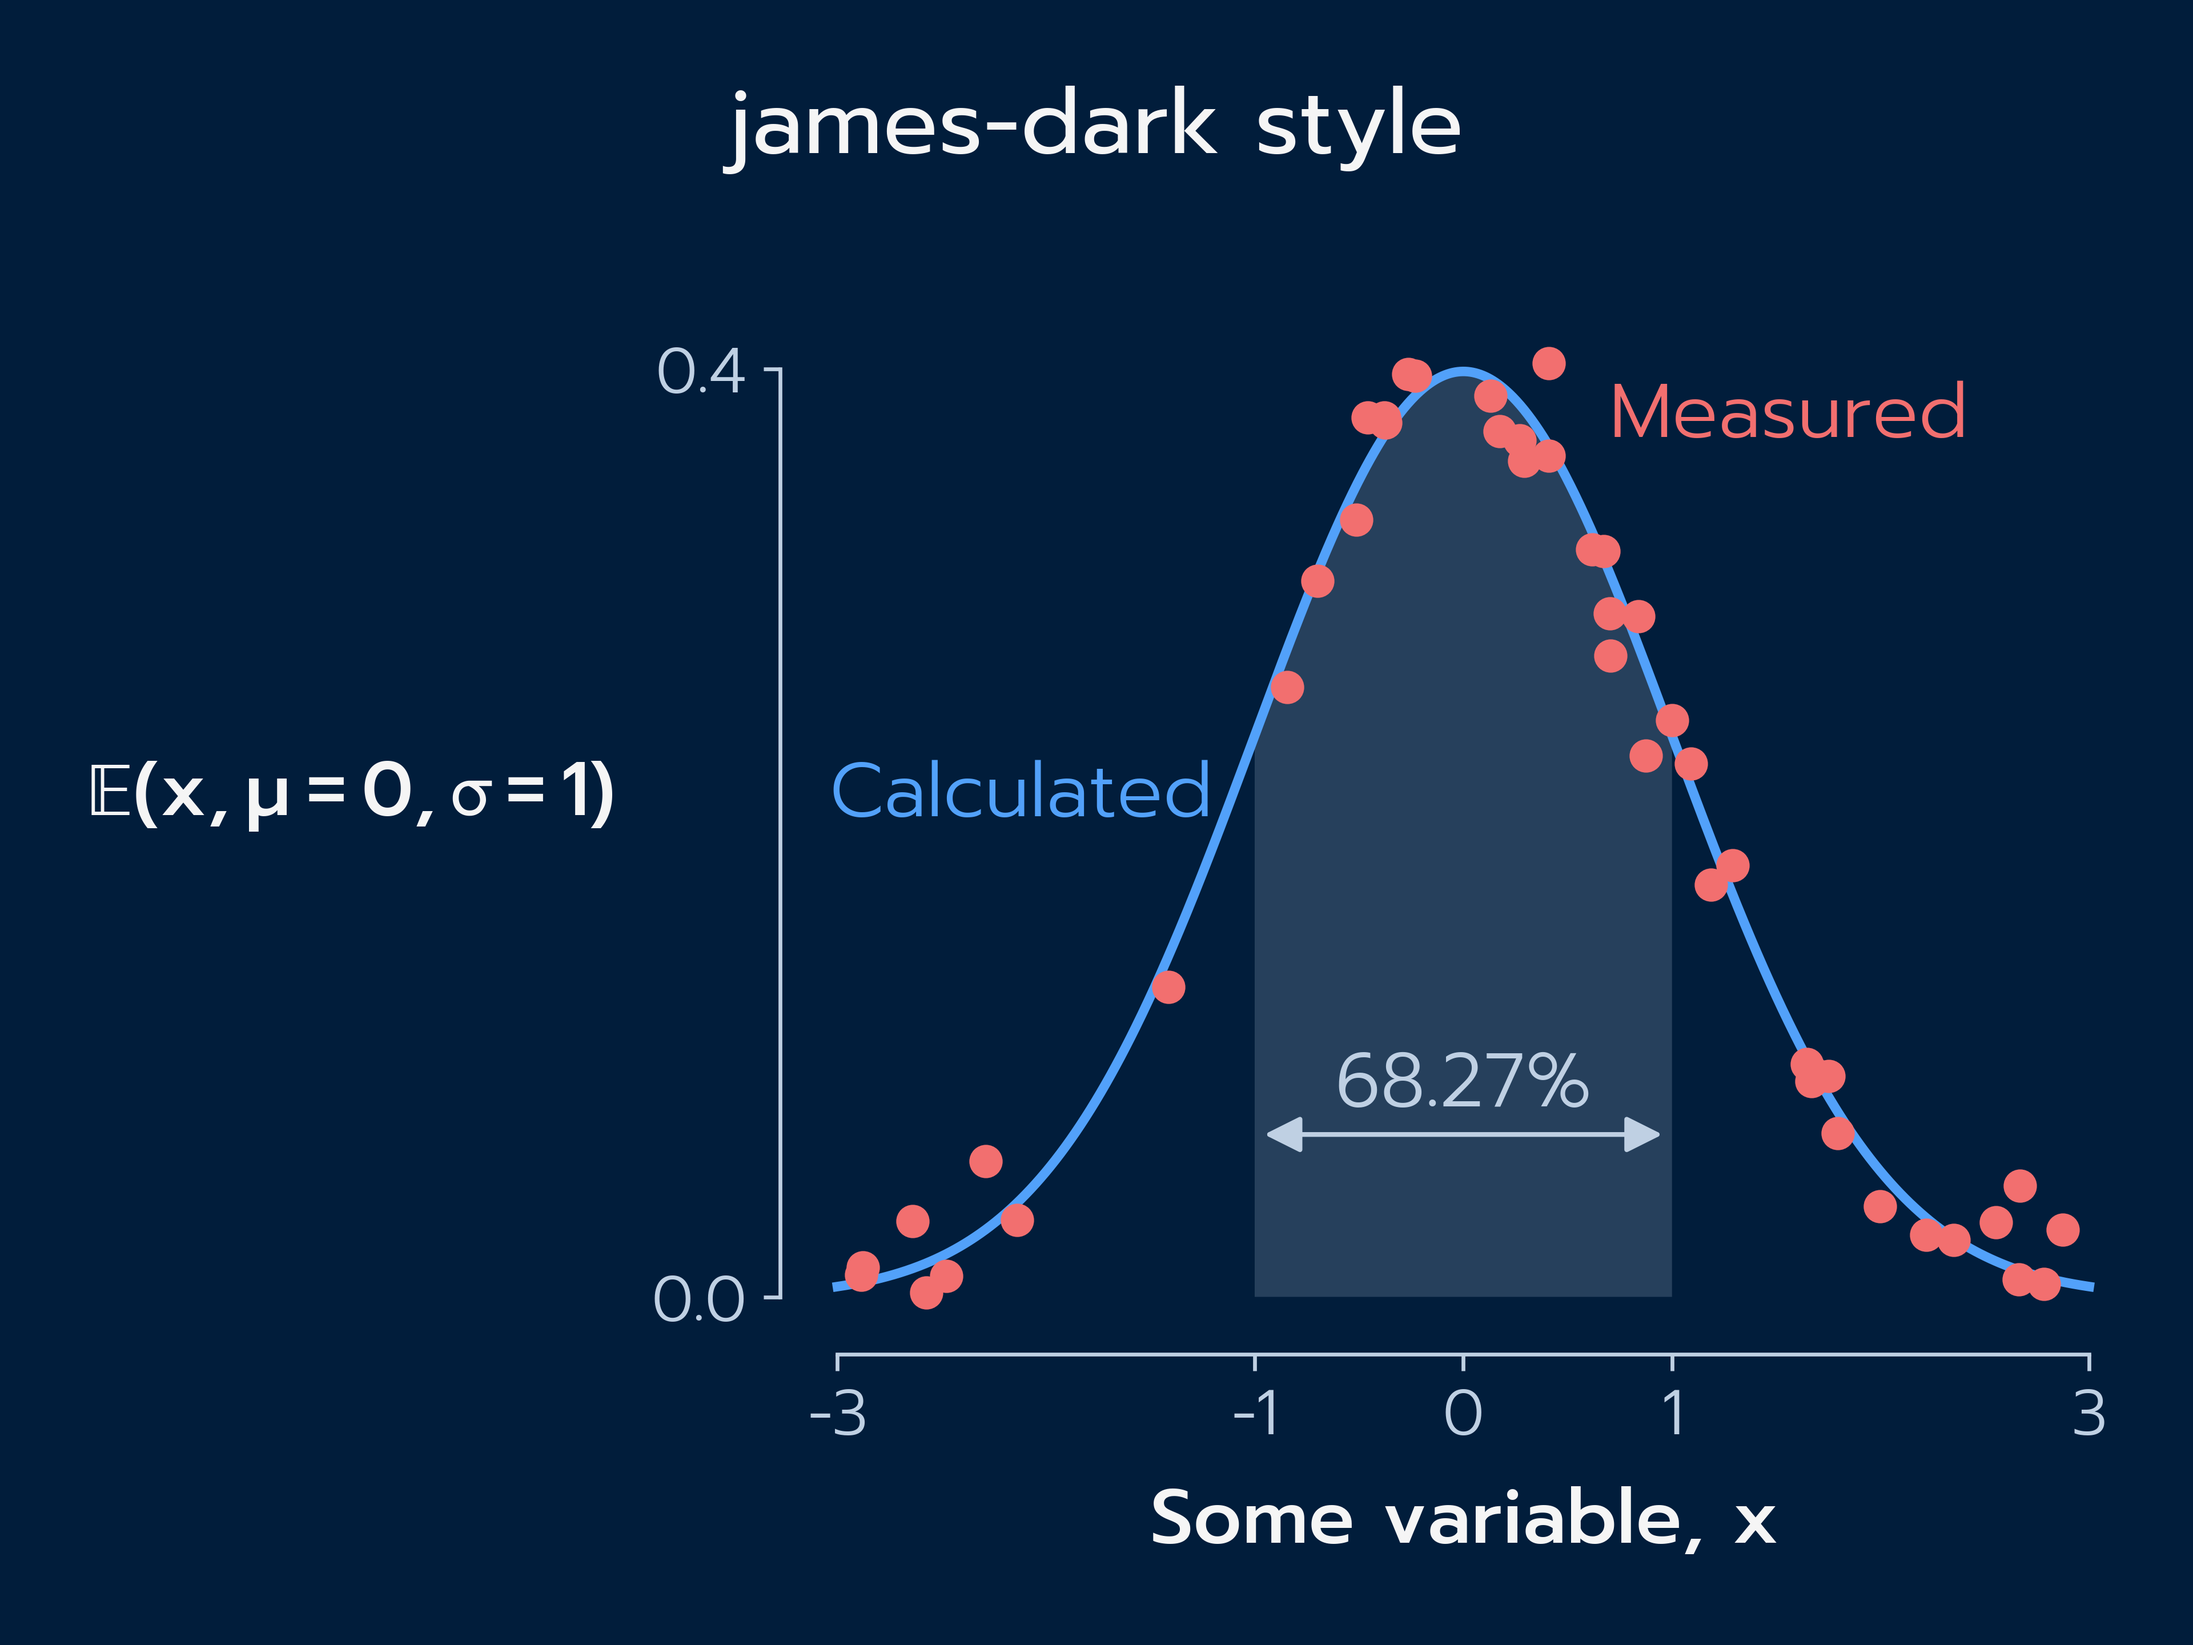
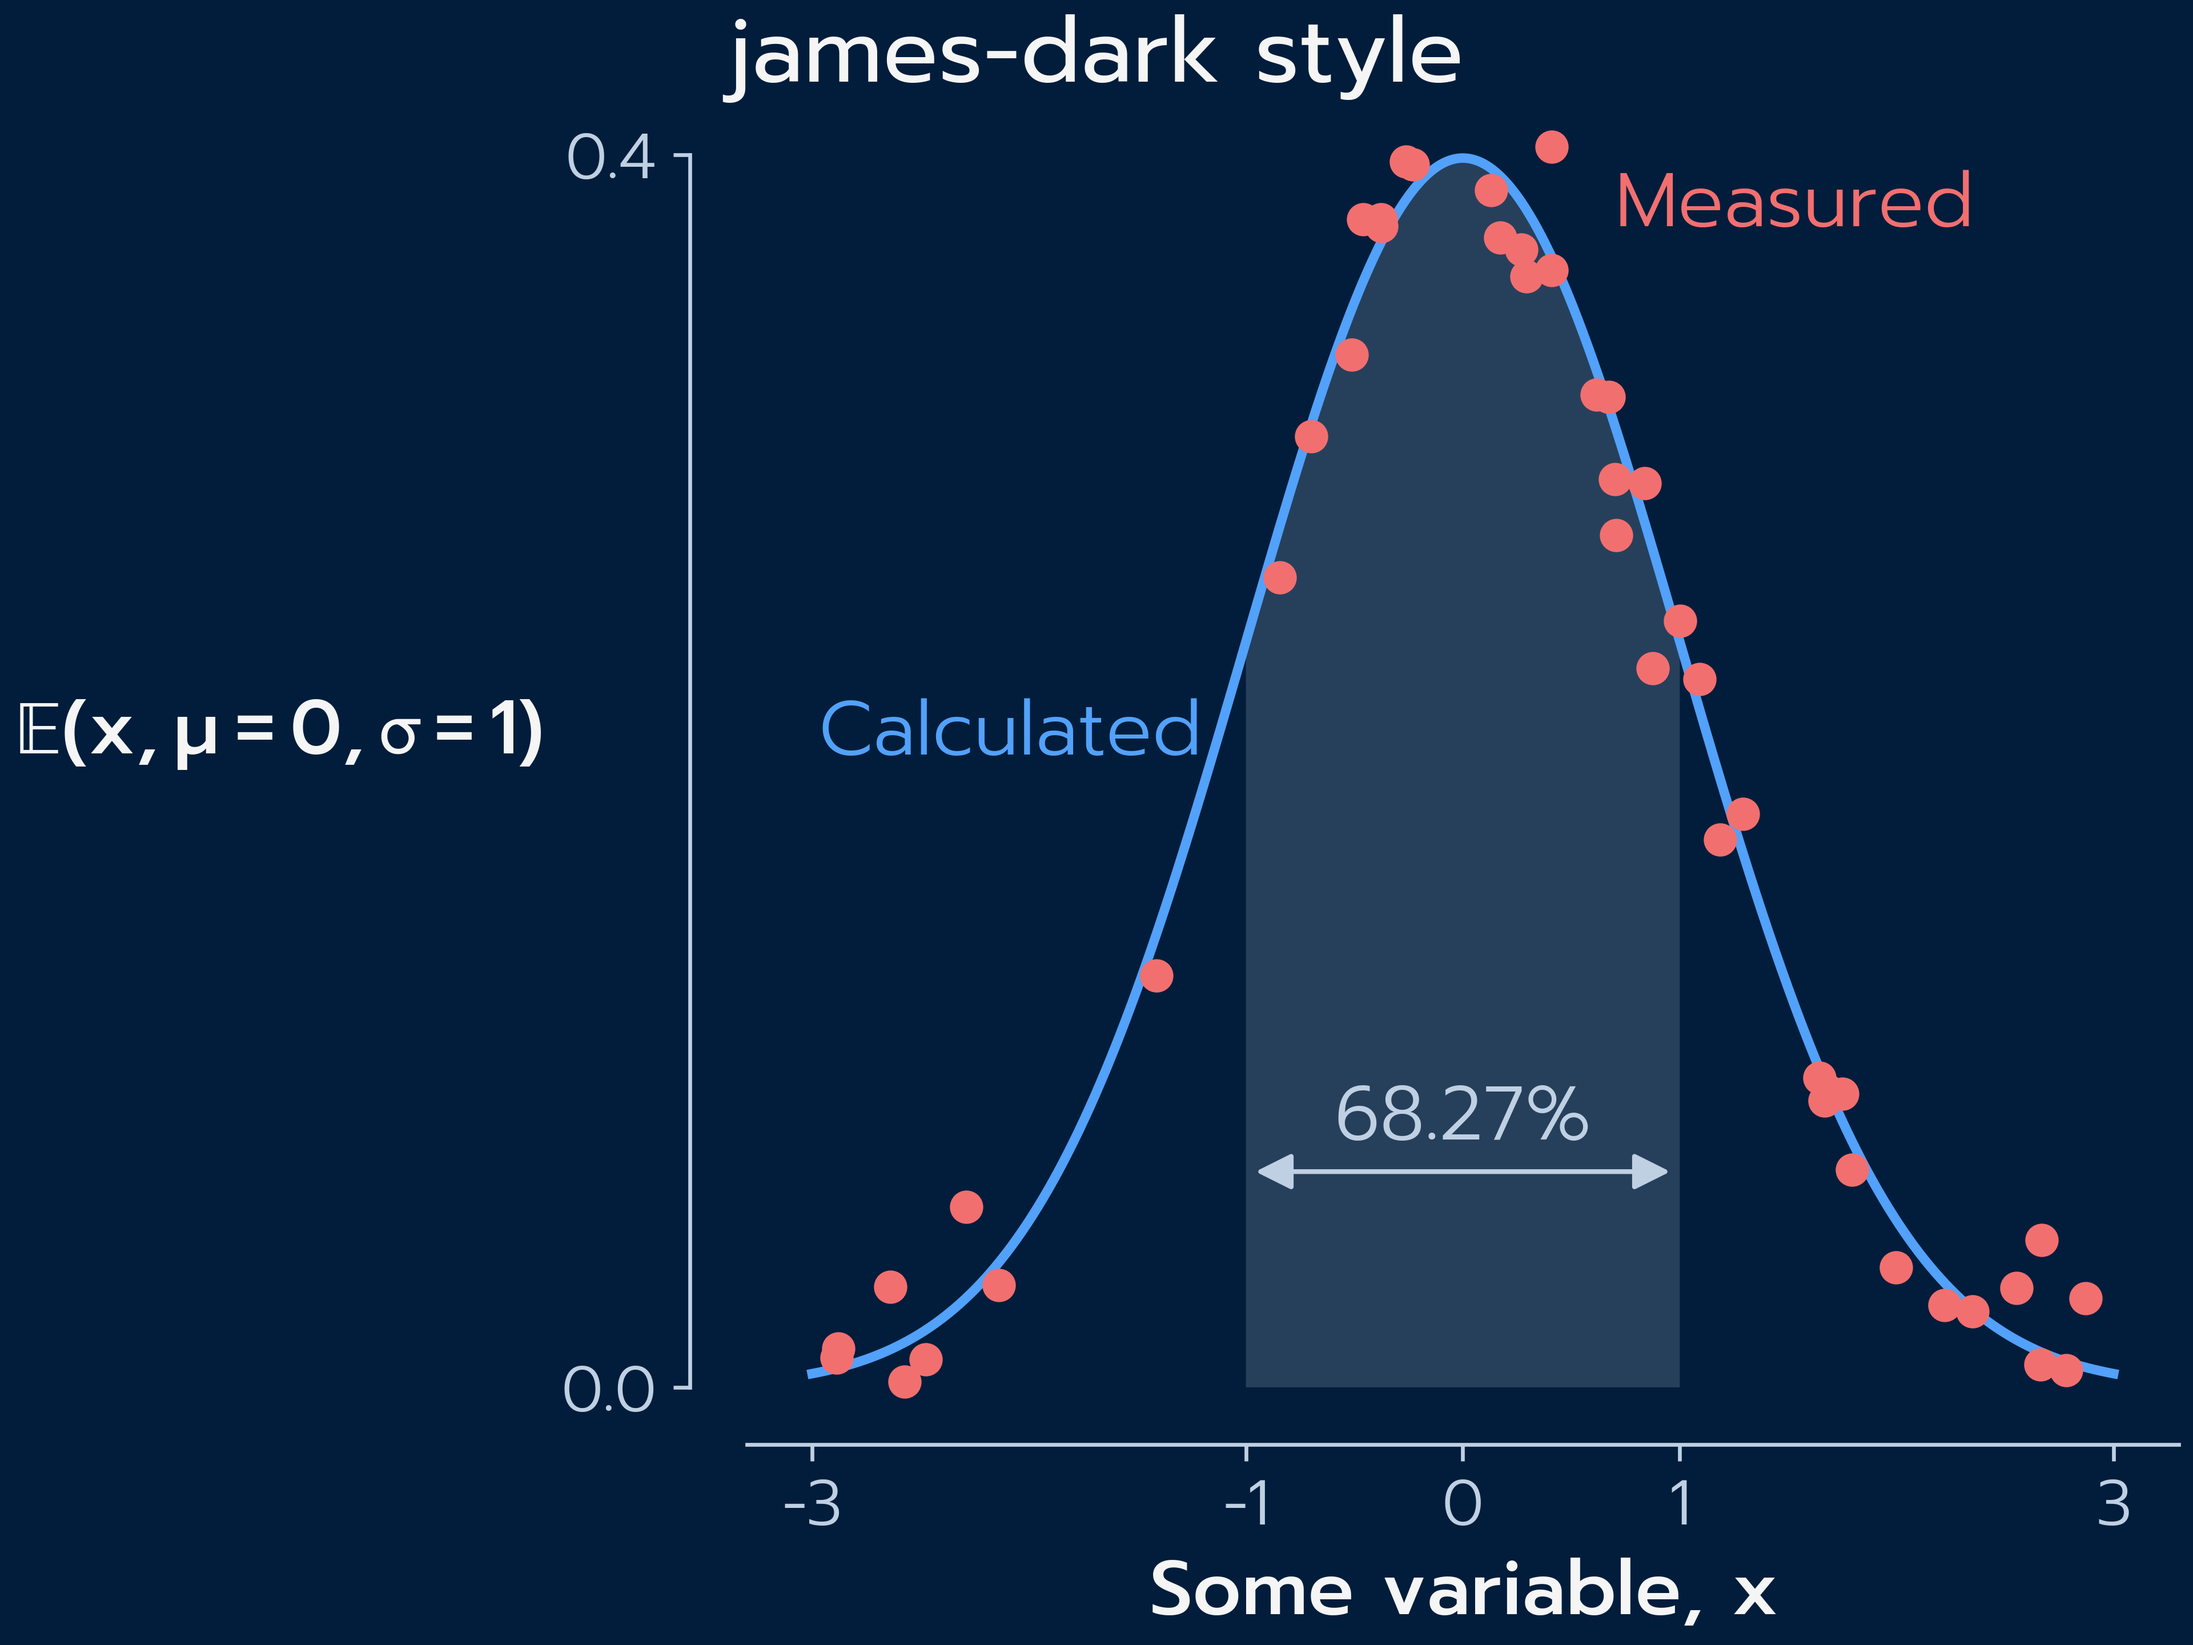
Fixed james gaussian and added refs

diff --git a/examples/plot_color_demo.py b/examples/plot_color_demo.py
@@ -25,7 +25,7 @@ styles = niceplots.get_available_styles()
 
 plt.style.use(niceplots.get_style("james-light"))
 
-fig, axs = plt.subplots(1, len(styles), figsize=(3 * len(styles), 8), tight_layout=True)
+fig, axs = plt.subplots(1, len(styles), figsize=(3 * len(styles), 8))
 axs = axs.flatten()
 
 for i, style in enumerate(styles):
